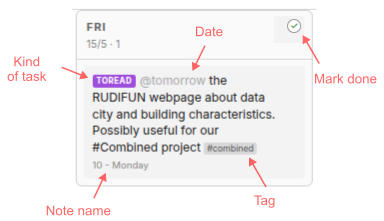
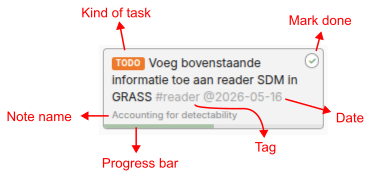
Progress bar
Added option to set progress in increments of 25%. Set it by clicking at the bottom of the card. It cycles from 0 to 75%. To mark the task as done, you still need to click on the 'Done' button.

Changed region(s): [[0.0, 0.0281, 0.9784, 0.9831], [0.0, 0.2528, 0.1186, 0.3933], [0.504, 0.1124, 0.593, 0.1685]]

diff --git a/weeklyplanner/planner.jsx b/weeklyplanner/planner.jsx
@@ -43,11 +43,12 @@
  *          #wp_check=#42ae2e         override CHECK chip color
  *          #wp_toread=#9d4edd        override TOREAD chip color
  *        Theme (any CSS color string):
- *          #wp_bg_task=#e3e3e3       task card background
- *          #wp_bg_panel=#f8f8f8      column / panel background
+ *          #wp_bg_task=#f3f3f3          task card background
+ *          #wp_bg_panel=#fafafa         column / panel background
  *          #wp_color_done_text=#cfcfcf  grey of marked-done lines in source
  *          #wp_color_done_btn=#79a574   mark-done ✓ button color
  *          #wp_color_date_tag=#a8a8a8   inline @date token color
+ *          #wp_color_progress=#79a574   progress-bar fill
  */
 
 import { useEffect, useRef, useState, useCallback, useMemo } from "trilium:preact";
@@ -77,11 +78,12 @@ function getKindColor(kind, overrides) {
 /* Theme defaults — each can be overridden per install via a label on the
    #plannerdata note. The label names use the wp_ prefix (e.g. #wp_bg_task). */
 const THEME_DEFAULTS = {
-    bgTask:        '#f3f3f3',  // task card background
-    bgPanel:       '#fafafa',  // column / panel background
-    colorDoneText: '#cfcfcf',  // grey of marked-done lines in source
-    colorDoneBtn:  '#79a574',  // mark-done button color
-    colorDateTag:  '#a8a8a8',  // inline @date token color
+    bgTask:         '#f3f3f3',  // task card background
+    bgPanel:        '#fafafa',  // column / panel background
+    colorDoneText:  '#cfcfcf',  // grey of marked-done lines in source
+    colorDoneBtn:   '#79a574',  // mark-done button color
+    colorDateTag:   '#a8a8a8',  // inline @date token color
+    colorProgress:  '#79a574',  // progress-bar fill (matches done button by default)
 };
 
 function resolveTheme(overrides) {
@@ -220,12 +222,14 @@ async function loadPlannerData() {
         //   #wp_color_done_text    grey of marked-done lines in source
         //   #wp_color_done_btn     mark-done button color
         //   #wp_color_date_tag     inline @date token color
+        //   #wp_color_progress     progress-bar fill
         const themeLabelMap = {
-            bgTask:        'wp_bg_task',
-            bgPanel:       'wp_bg_panel',
-            colorDoneText: 'wp_color_done_text',
-            colorDoneBtn:  'wp_color_done_btn',
-            colorDateTag:  'wp_color_date_tag',
+            bgTask:         'wp_bg_task',
+            bgPanel:        'wp_bg_panel',
+            colorDoneText:  'wp_color_done_text',
+            colorDoneBtn:   'wp_color_done_btn',
+            colorDateTag:   'wp_color_date_tag',
+            colorProgress:  'wp_color_progress',
         };
         const themeOverrides = {};
         for (const key in themeLabelMap) {
@@ -597,9 +601,6 @@ function buildStyle(theme) {
 .pl-task-kind { display:inline-block; font-size:10px; font-weight:700;
                 padding:1px 5px; border-radius:3px; margin-right:5px;
                 vertical-align:middle; letter-spacing:.05em; color:#fff; }
-.pl-task-tag { display:inline-block; font-size:11px; padding:0 4px;
-               border-radius:3px; margin-left:4px; vertical-align:middle;
-               background:#d8d8d8; color:#555; }
 .pl-task-date { color:${theme.colorDateTag}; }
 
 .pl-drop { display:none; height:40px; border:2px dashed #b8b8b8;
@@ -674,6 +675,33 @@ body.pl-resizing * { cursor:col-resize !important; }
 @media (hover: none) {
     .pl-task-done-btn { opacity:.7; }
 }
+
+/* Progress bar at the bottom edge of the task card.
+   Click on the bar cycles 0 → 25 → 50 → 75 → 100 → 0.
+   Reaching 100 calls markDone via the cycle handler. */
+.pl-task-progress {
+    position:absolute; left:0; right:0; bottom:0;
+    height:5px; border-radius:0 0 5px 5px;
+    background:rgba(0,0,0,.06);
+    cursor:pointer; overflow:hidden;
+}
+.pl-task-progress-fill {
+    height:100%;
+    background:${theme.colorProgress};
+    opacity:.55;
+    transition:width .15s, opacity .15s;
+}
+.pl-task-progress:hover .pl-task-progress-fill { opacity:.85; }
+.pl-task-progress-label {
+    position:absolute; right:6px; top:-15px;
+    font-size:10px; color:#666;
+    background:#fff; padding:0 4px; border-radius:3px;
+    pointer-events:none; opacity:0;
+    transition:opacity .15s;
+}
+.pl-task-progress:hover .pl-task-progress-label { opacity:1; }
+/* Add bottom padding so card content doesn't sit under the bar */
+.pl-task { padding-bottom:9px; }
 `;
 }
 
@@ -705,20 +733,20 @@ function KindChip({ kind, overrides }) {
     );
 }
 
-/* Render task text inline, with @tokens styled as light-grey spans.
-   Splits the text on @token matches (any non-space run after @ that is
-   preceded by start-of-text or whitespace) and emits a span per match. */
+/* Render task text inline, with @tokens and #tags styled as light-grey spans.
+   Walks the text once and emits a styled span per match of either pattern.
+   Both use the same .pl-task-date CSS rule so they share the muted look. */
 function renderTaskText(text) {
     const parts = [];
-    const re = /(^|\s)@(\S+)/g;
+    // Match @word or #word at start-of-text or after whitespace.
+    // \S+ for @date; [A-Za-z][\w-]* for #tag (matches the parseTaskMeta rule).
+    const re = /(^|\s)(@\S+|#[A-Za-z][\w-]*)/g;
     let last = 0;
     let m;
     while ((m = re.exec(text)) !== null) {
-        // Emit any text before the match (including the leading space/start)
-        const tokenStart = m.index + m[1].length;       // position of the '@'
+        const tokenStart = m.index + m[1].length;
         if (tokenStart > last) parts.push(text.slice(last, tokenStart));
-        // Emit the @token as a styled span
-        const token = '@' + m[2];
+        const token = m[2];
         parts.push(
             <span class="pl-task-date" key={`${tokenStart}-${token}`}>{token}</span>
         );
@@ -728,16 +756,29 @@ function renderTaskText(text) {
     return parts;
 }
 
-function TaskCard({ task, overrides, draggable, onClick, onMarkDone, onDragStart, onDragEnd }) {
+function TaskCard({ task, progress, overrides, draggable, onClick, onMarkDone, onSetProgress, onDragStart, onDragEnd }) {
     const [working, setWorking] = useState(false);
 
     const handleDone = async (e) => {
-        e.stopPropagation();   // don't trigger card click
+        e.stopPropagation();
         if (working) return;
         setWorking(true);
         try { await onMarkDone(task); }
         catch (err) { console.error(err); setWorking(false); }
     };
+
+    // Progress click: cycle 0 → 25 → 50 → 75 → 100 → 0.
+    // Progress click cycles 0 → 25 → 50 → 75 → 0.
+    // The bar deliberately does NOT reach 100 — completion is the ✓ button's job,
+    // so a misclick on the bar can't accidentally mark a task done.
+    const handleProgressClick = (e) => {
+        e.stopPropagation();
+        const current = progress || 0;
+        const next = current >= 75 ? 0 : current + 25;
+        onSetProgress(task, next);
+    };
+
+    const pct = Math.max(0, Math.min(75, progress || 0));
 
     return (
         <div
@@ -745,7 +786,7 @@ function TaskCard({ task, overrides, draggable, onClick, onMarkDone, onDragStart
             draggable={draggable}
             data-task-id={task.id}
             onClick={onClick}
-            onAuxClick={onClick}   /* middle-click fires here in most browsers */
+            onAuxClick={onClick}
             onDragStart={onDragStart}
             onDragEnd={onDragEnd}
         >
@@ -753,7 +794,6 @@ function TaskCard({ task, overrides, draggable, onClick, onMarkDone, onDragStart
                 class={`pl-task-done-btn${working ? ' working' : ''}`}
                 title="Mark done"
                 onClick={handleDone}
-                /* stop drag from starting on the button itself */
                 draggable={false}
                 onMouseDown={(e) => e.stopPropagation()}
             >
@@ -762,18 +802,24 @@ function TaskCard({ task, overrides, draggable, onClick, onMarkDone, onDragStart
             <div style={{ paddingRight: '20px' }}>
                 <KindChip kind={task.kind} overrides={overrides} />
                 {renderTaskText(task.text)}
-                {task.tags.map(tag => (
-                    <span class="pl-task-tag" key={tag}>#{tag}</span>
-                ))}
             </div>
             <div class="pl-task-note">{task.noteTitle}</div>
+            <div
+                class="pl-task-progress"
+                title={`Progress: ${pct}% — click to advance`}
+                onClick={handleProgressClick}
+                onMouseDown={(e) => e.stopPropagation()}
+            >
+                <div class="pl-task-progress-fill" style={{ width: `${pct}%` }} />
+                {pct > 0 && <span class="pl-task-progress-label">{pct}%</span>}
+            </div>
         </div>
     );
 }
 
 function Column({
-    col, tasks, mobile, isResizing, widthStyle, overrides,
-    onCardClick, onCardMarkDone, onCardDragStart, onCardDragEnd,
+    col, tasks, mobile, isResizing, widthStyle, overrides, progressMap,
+    onCardClick, onCardMarkDone, onCardSetProgress, onCardDragStart, onCardDragEnd,
     onDragOver, onDragLeave, onDrop,
     onResizeStart, insertMarkerBeforeId,
 }) {
@@ -804,10 +850,12 @@ function Column({
                         <TaskCard
                             key={t.id}
                             task={t}
+                            progress={progressMap ? progressMap[t.id] : 0}
                             overrides={overrides}
                             draggable={!mobile}
                             onClick={(e) => onCardClick(t, e)}
                             onMarkDone={onCardMarkDone}
+                            onSetProgress={onCardSetProgress}
                             onDragStart={(e) => onCardDragStart(t, e)}
                             onDragEnd={onCardDragEnd}
                         />
@@ -1113,6 +1161,11 @@ function PlannerApp() {
                     [oldDay]: next._order[oldDay].filter(id => id !== task.id),
                 };
             }
+            if (next._progress && task.id in next._progress) {
+                const nextProgress = { ...next._progress };
+                delete nextProgress[task.id];
+                next._progress = nextProgress;
+            }
             return next;
         });
 
@@ -1144,6 +1197,20 @@ function PlannerApp() {
             setCapturing(false);
         }
     }, [reload, reloadNote]);
+
+    /* Set a task's progress (0/25/50/75). 100 is handled separately via markDone.
+       Stored in plannerData._progress under the task ID. Setting 0 removes the
+       key to keep the map clean. */
+    const setProgress = useCallback((task, value) => {
+        const v = Math.max(0, Math.min(75, Math.round(value)));
+        setPlannerData(prev => {
+            const cur = prev._progress || {};
+            const nextProgress = { ...cur };
+            if (v === 0) delete nextProgress[task.id];
+            else nextProgress[task.id] = v;
+            return { ...prev, _progress: nextProgress };
+        });
+    }, []);
 
     /* Drag */
     const onCardDragStart = useCallback((task, e) => {
@@ -1375,9 +1442,11 @@ function PlannerApp() {
                             isResizing={col.isBacklog && isResizing}
                             widthStyle={widthStyle}
                             overrides={colorOverrides}
+                            progressMap={plannerData._progress}
                             insertMarkerBeforeId={marker}
                             onCardClick={onCardClick}
                             onCardMarkDone={markDone}
+                            onCardSetProgress={setProgress}
                             onCardDragStart={onCardDragStart}
                             onCardDragEnd={onCardDragEnd}
                             onDragOver={(e) => onZoneDragOver(col.key, e)}